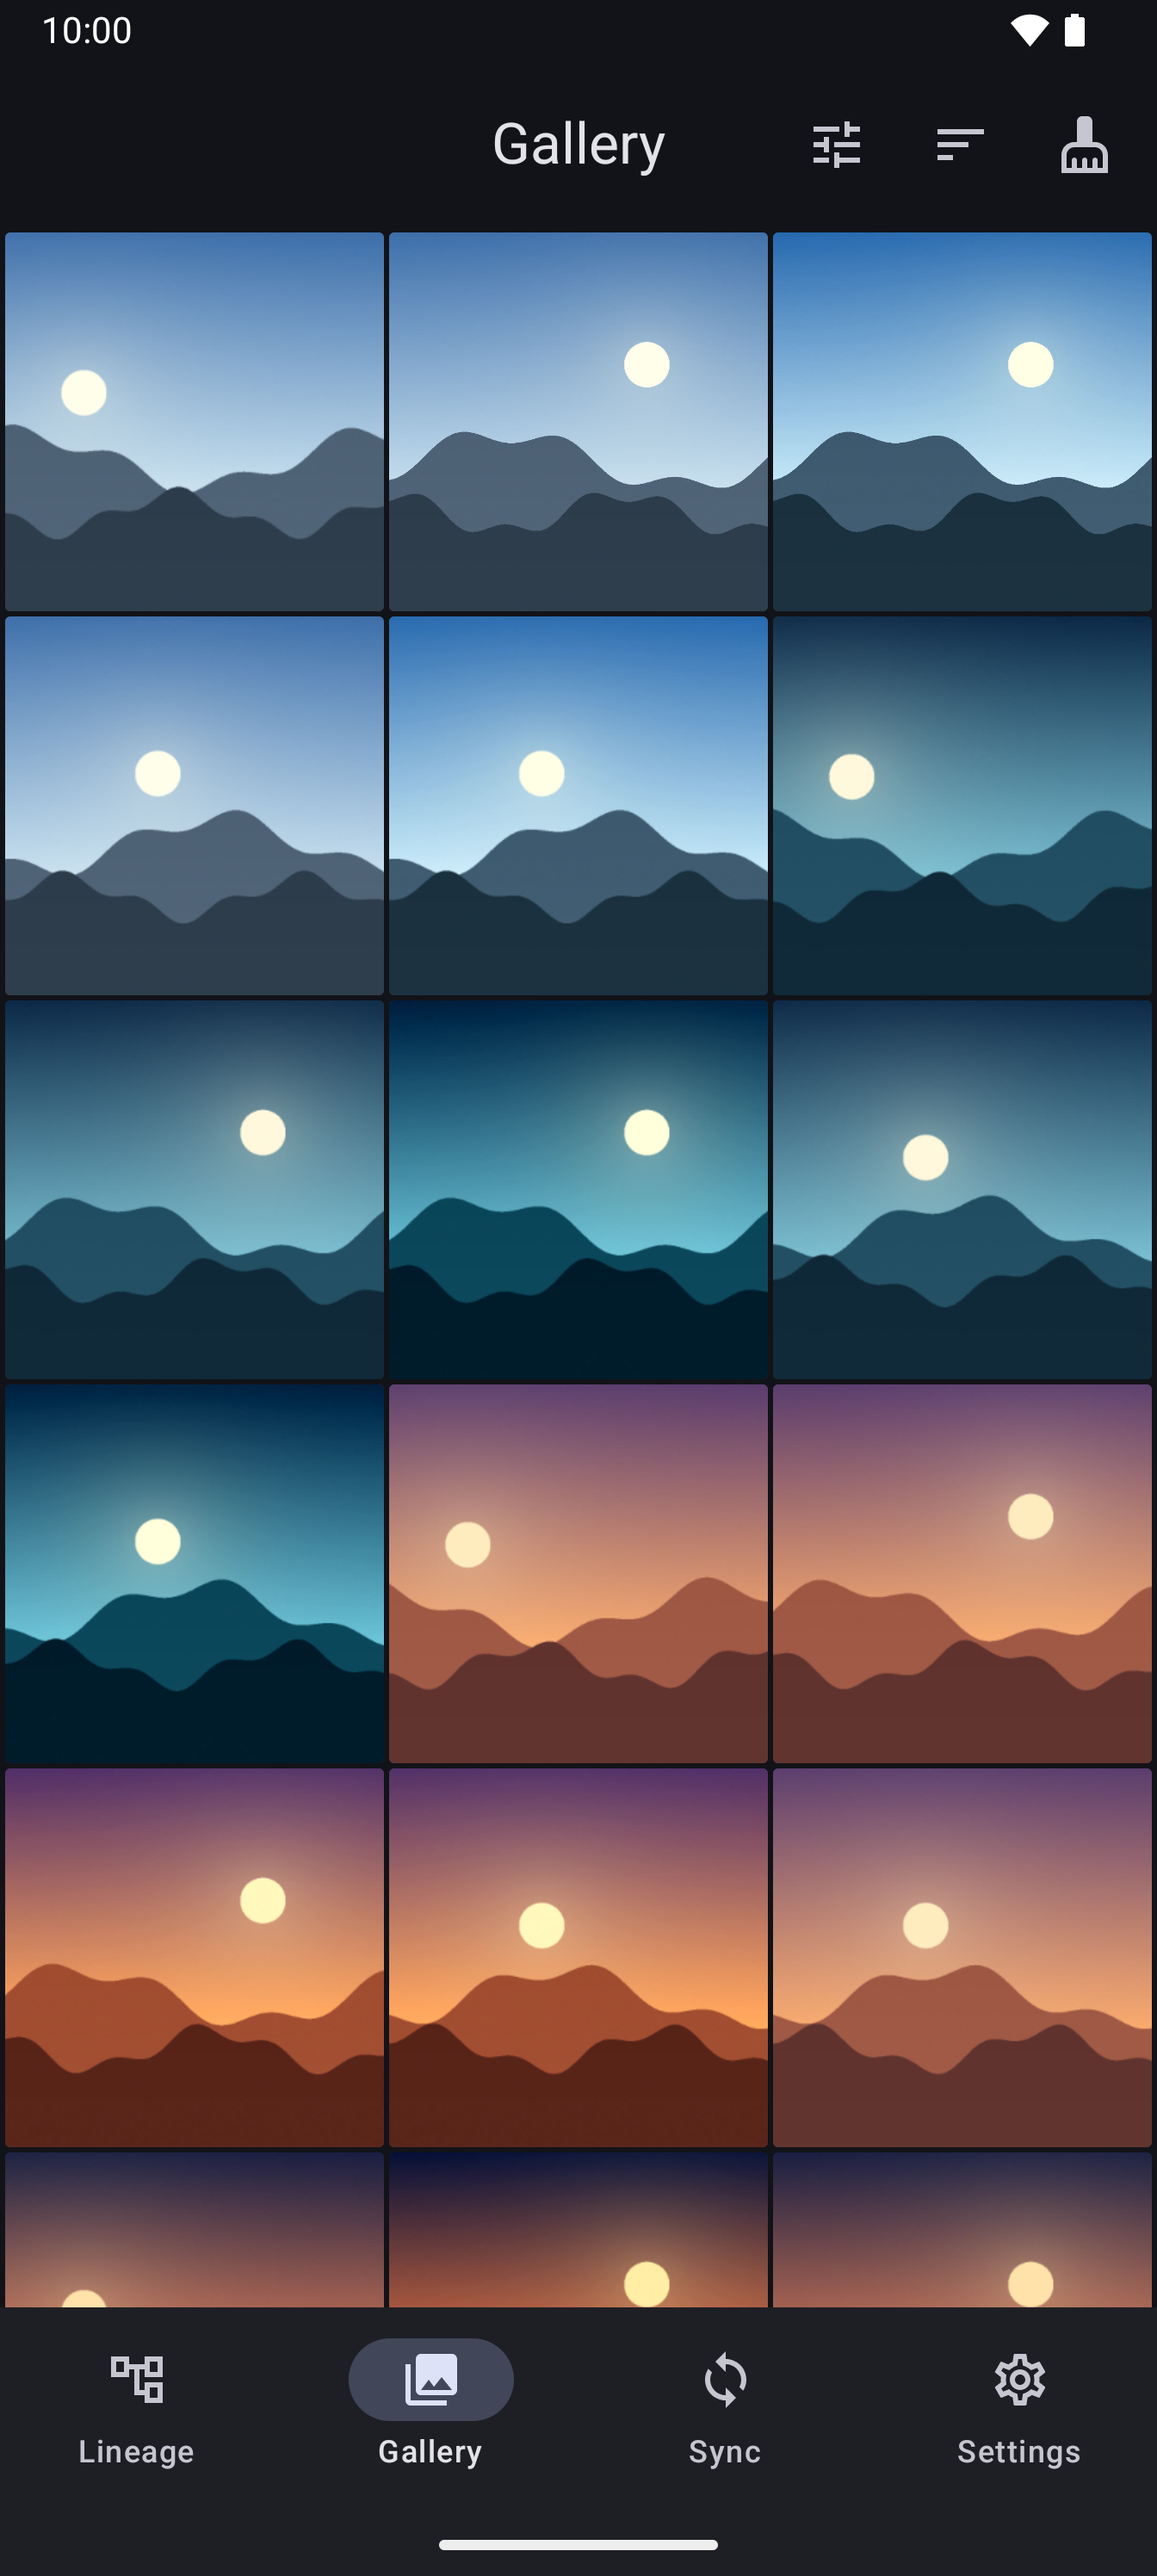
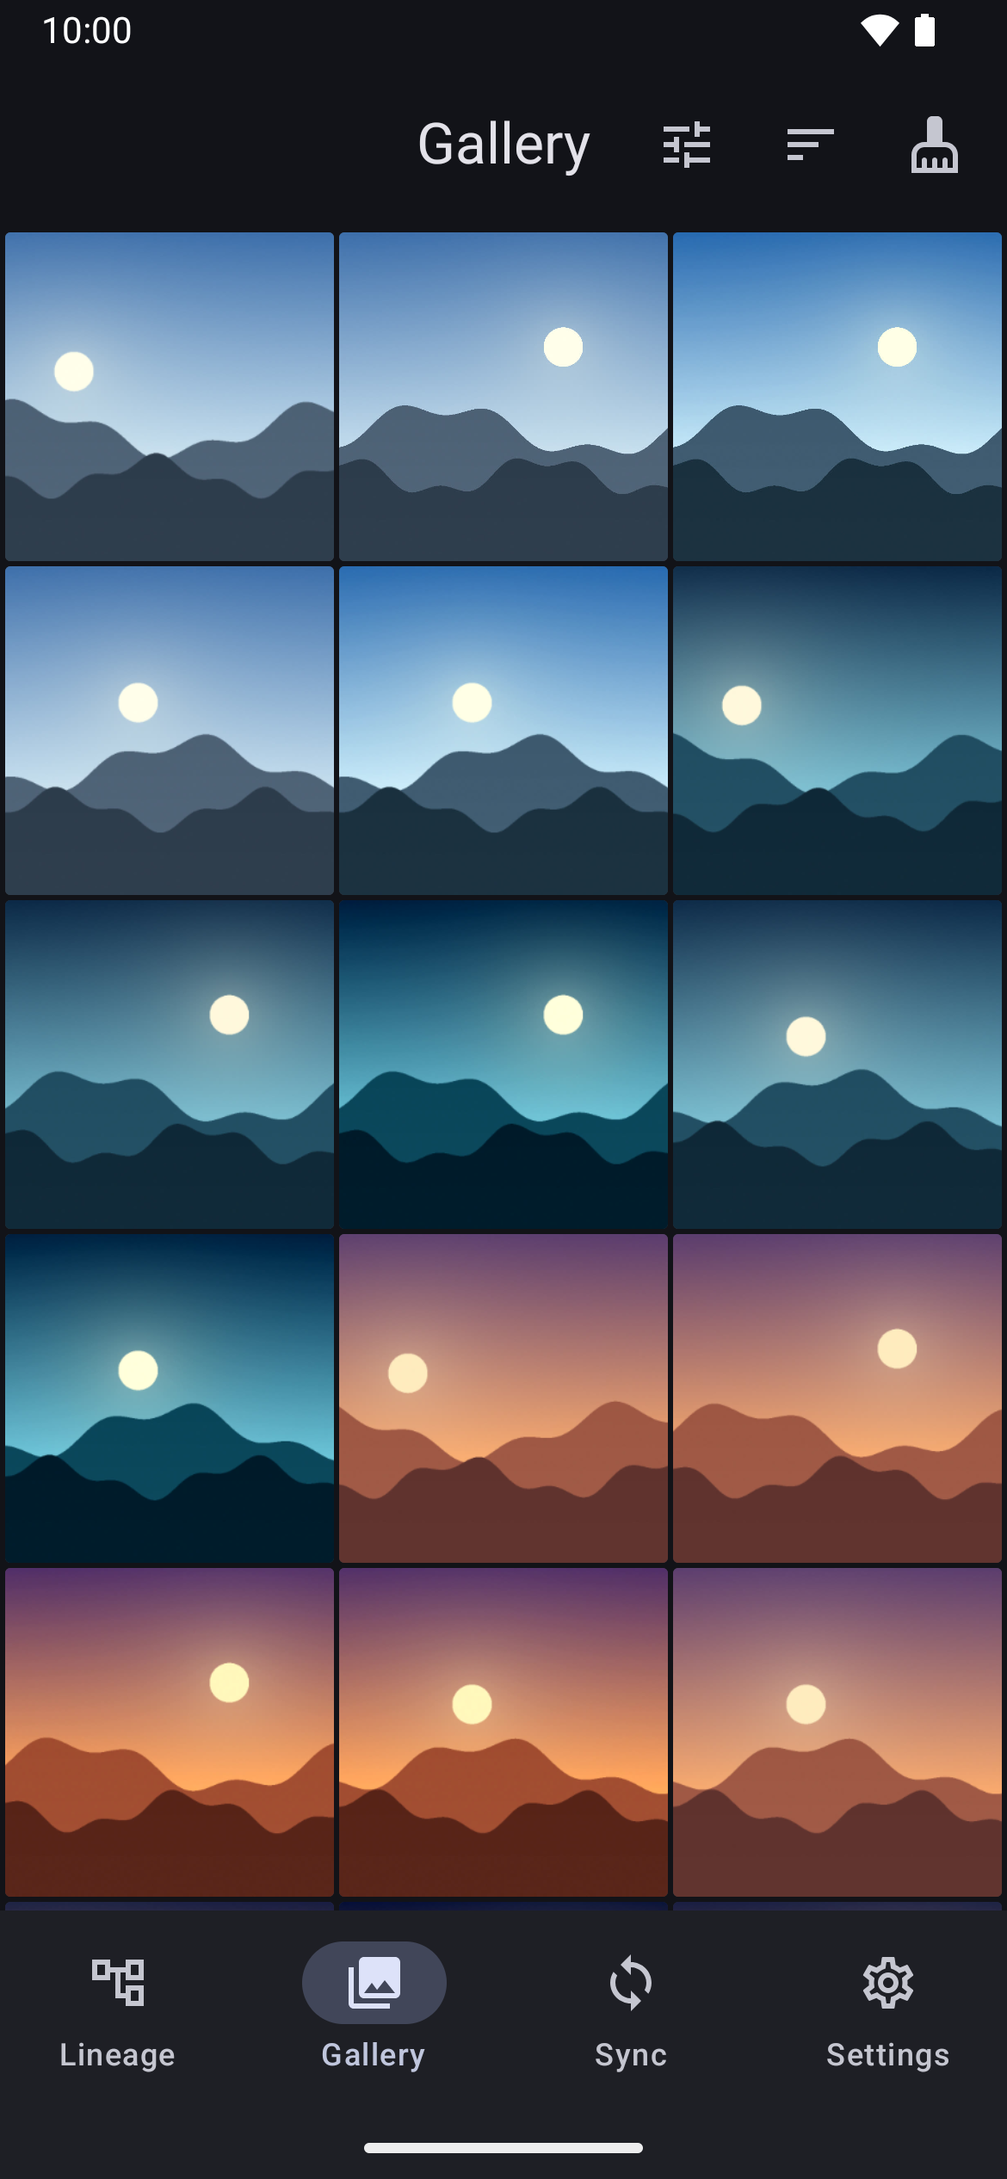
chore: deliver the landing contract (screenshots-landing)
Claude-Session: https://claude.ai/code/session_01SdPTrMH1joyDRTTRj6n9Ym

diff --git a/CONTRIBUTING.md b/CONTRIBUTING.md
@@ -33,22 +33,34 @@ from a reproducible pipeline, not from a personal device:
 ```sh
 make screenshots                       # writes docs/screenshots/
 make screenshots OUT=/abs/path/shots   # any other directory
+make screenshots-landing OUT=/abs/dir  # the same shots as <scene>-mobile.png
 ```
 
-`scripts/screenshots.sh` builds the debug APK, boots a throwaway copy of
-the `pixel_10` AVD headless (only its `config.ini` is copied into a scratch
-`ANDROID_AVD_HOME`, so your AVD's data is never touched), starts a branchDAM
+`screenshots-landing` is what personal-landing's `assets:sync` runs for this
+app. It meets visual-kit's landing contract for a phone: files named
+`<scene>-mobile.png` (`audit-queue`, `gallery`, `sync-status`), each exactly
+1170x2532 (390x844 dp at 3x). There is no visual-kit runner or CI check for
+this repo: a hosted runner has no emulator, and visual-kit's runner drives a
+browser, not an Android device. Both targets capture the same device, so the
+README images are 1170x2532 too.
+
+`scripts/screenshots.sh` builds the debug APK, boots a throwaway AVD
+headless (the checked-in hardware profile `scripts/avd/config.ini` on the
+API 35 `google_apis` x86_64 system image, built in a scratch
+`ANDROID_AVD_HOME`, so none of your AVDs is read or touched), starts a branchDAM
 demo instance from the sibling `../branchDAM` checkout (`make demo` tooling,
 synthetic media, scratch dir, `127.0.0.1:3975`), pairs the app with it,
-pushes a few demo photos into `DCIM/Camera`, switches to dark theme with a
+sets the emulator's clock to the demo's fixed instant (`DEMO_NOW`, default
+`2026-10-15T10:00:00Z`; the demo fixes its own data to the same one, so two
+runs give the same images), pushes a few demo photos into `DCIM/Camera`, switches to dark theme with a
 demo-mode status bar and captures each screen with `adb exec-out screencap`.
 On any exit it kills the emulator and the demo and deletes the scratch dirs.
 
 Requirements: Android SDK at `$ANDROID_HOME` (default `~/Android/Sdk`, adb
-and emulator are used from there), a `pixel_10` AVD, an NDK under
+and emulator are used from there), the API 35 `google_apis` x86_64 system image, an NDK under
 `$ANDROID_HOME/ndk` (the Go core is rebuilt every run), KVM, JDK, Go,
 node/npm, ffmpeg, exiftool, curl and jq; `../branchDAM` must include the
-demo tooling (branchdam#530). Override with `AVD`, `EMU_PORT` (default
+demo tooling that reads `DEMO_NOW` (branchdam#617). Override with `DEMO_NOW`, `EMU_PORT` (default
 5580), `BRANCHDAM_DIR` and `DEMO_PORT`; set `DEBUG_DIR` to keep a screencap,
 UI dump, logcat and the build/demo logs when a run fails. The script only
 ever addresses its own `emulator-$EMU_PORT` and refuses to run if that

diff --git a/README.md b/README.md
@@ -254,7 +254,8 @@ This runs:
 ### Screenshots
 
 The images at the top of this README come from `make screenshots`
-(`scripts/screenshots.sh`). It runs a headless emulator paired with a
+(`scripts/screenshots.sh`); `make screenshots-landing OUT=<dir>` writes the
+same shots as `<scene>-mobile.png` for the landing page. It runs a headless emulator paired with a
 throwaway branchDAM demo instance and uses synthetic media only. See
 [CONTRIBUTING.md](CONTRIBUTING.md#regenerating-screenshots) for what it does
 and what it needs.
